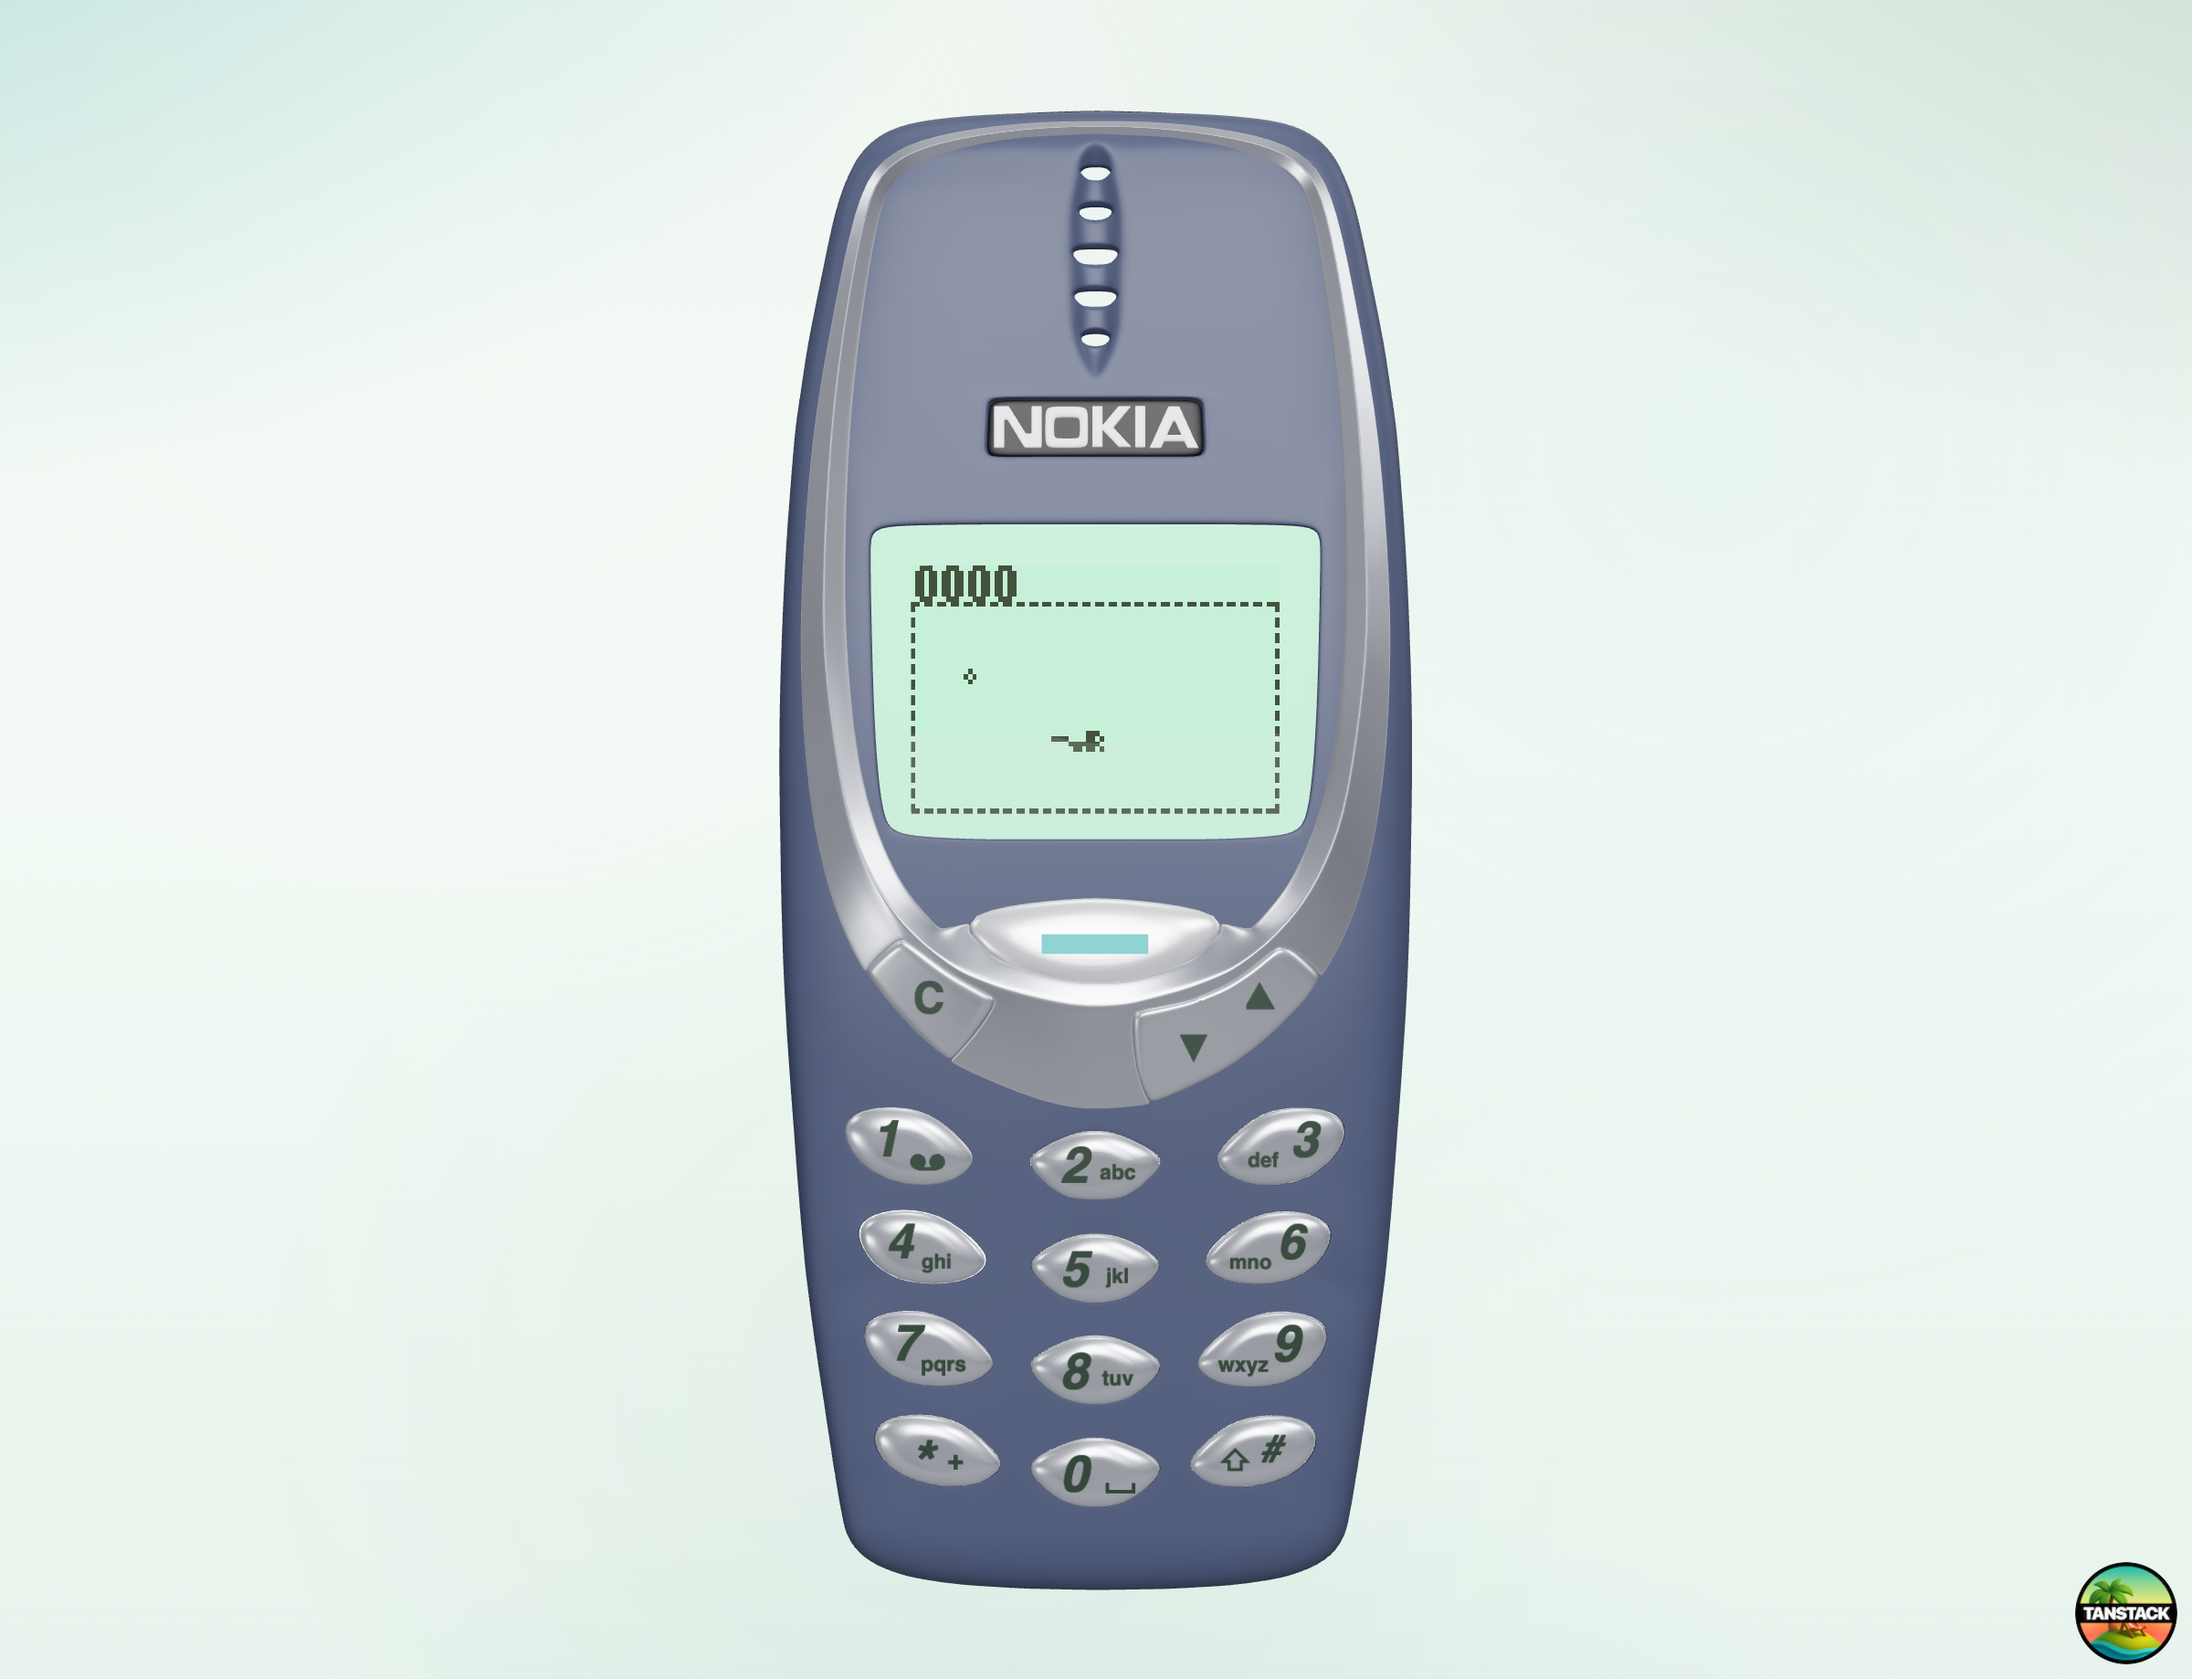
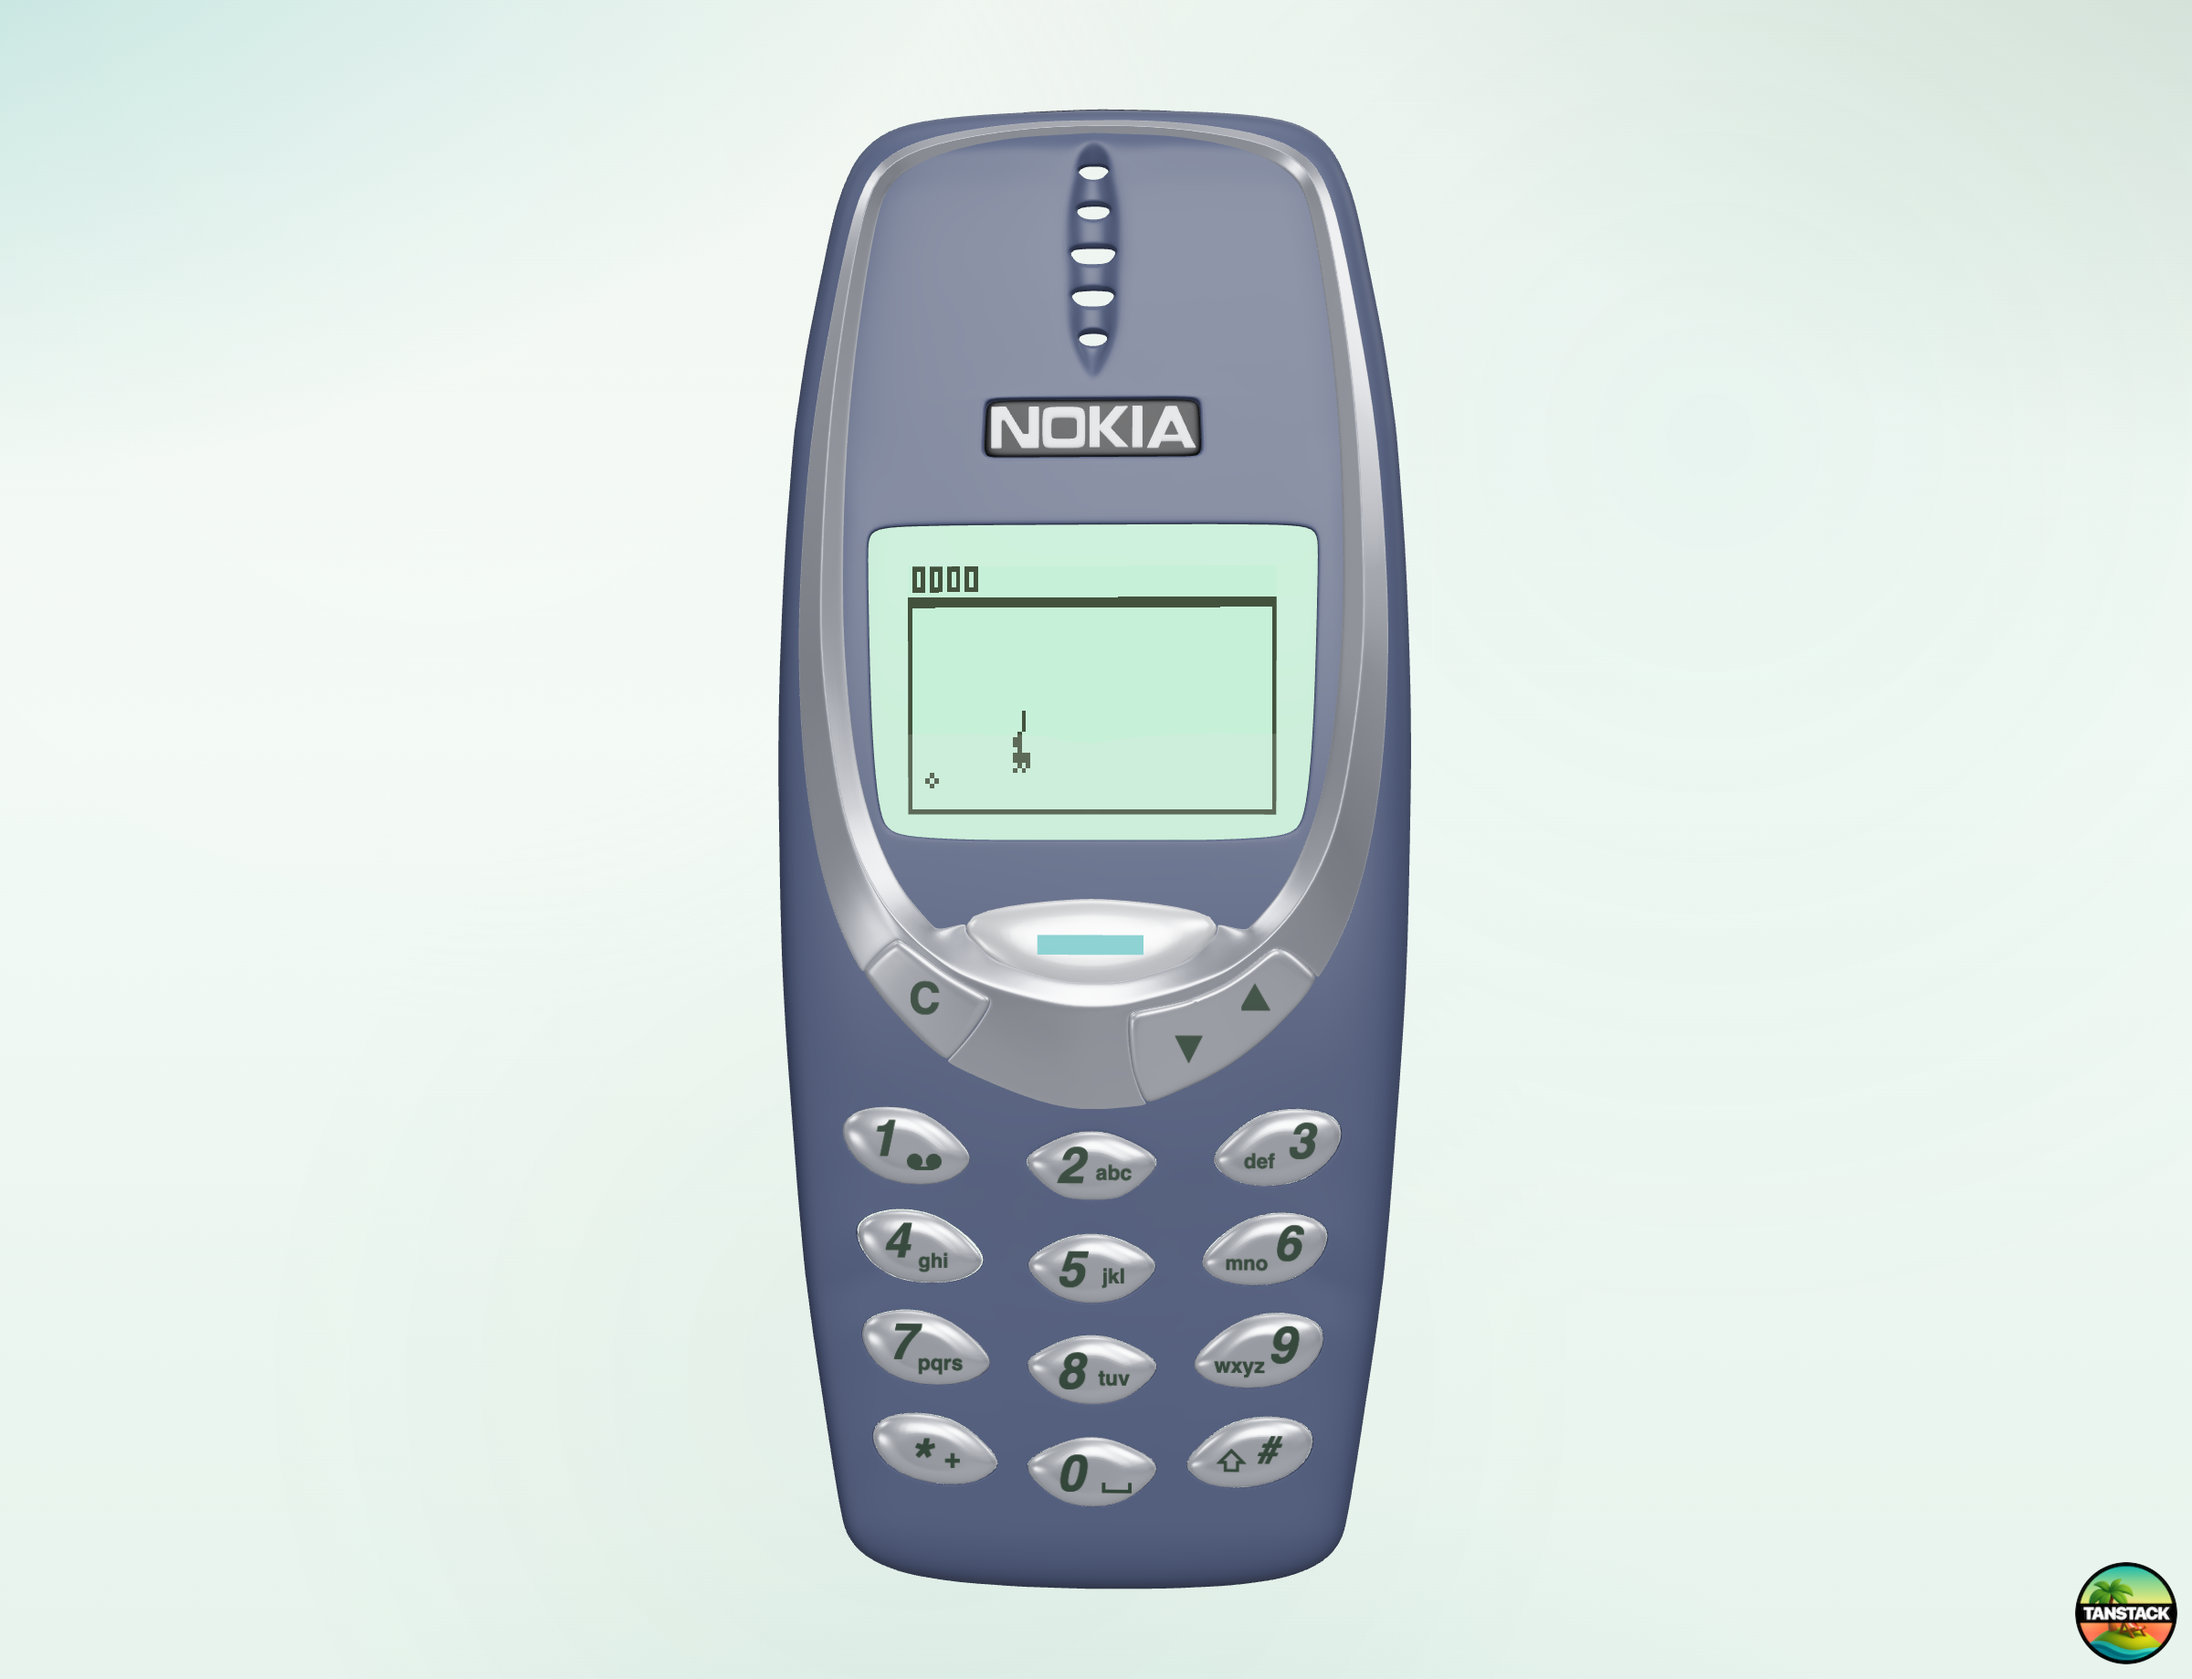
fix(snake): reference-measured HUD — 3x5 score, solid underline + frame
Measured the reference photo's ink density: the 'dashed' lines are the LCD
pixel grid, not gaps — underline and frame are SOLID 1px. Layout per the
measurement: 3x5 zero-padded score at rows 0-4, gap row 5, underline row 6,
frame top row 7 (bold 7-row digits reverted — they were the 'too big'
complaint; the bold font stays in phone-screen where it belongs). Bonus
countdown right-aligned in 3x5 at row 0. dirBetween lost its unused wrap
params. All 62 tests green against the new assertions.

diff --git a/packages/snake/src/font.ts b/packages/snake/src/font.ts
@@ -1,42 +1,31 @@
 import { drawArt } from "./bitmap";
 import type { Bitmap } from "./types";
 
-/**
- * Bold score digits matching the 3310 UI font (bitmaps transcribed from the
- * freeware "Nokia Cellphone FC Small" by Zeh Fernando at its native 8px —
- * copied as data; this package keeps its zero-dependency rule). Variable
- * width; the right bearing column is baked into each glyph.
- */
-export const DIGITS: Record<string, readonly string[]> = {
-  "0": [".###..", "##.##.", "##.##.", "##.##.", "##.##.", "##.##.", ".###.."],
-  "1": [".##.", "###.", ".##.", ".##.", ".##.", ".##.", ".##."],
-  "2": ["####..", "...##.", "...##.", ".###..", "##....", "##....", "#####."],
-  "3": ["####..", "...##.", "...##.", ".###..", "...##.", "...##.", "####.."],
-  "4": ["...##.", "..###.", ".#.##.", "#..##.", "#####.", "...##.", "...##."],
-  "5": ["####..", "#.....", "####..", "...##.", "...##.", "...##.", "####.."],
-  "6": [".###..", "##....", "####..", "##.##.", "##.##.", "##.##.", ".###.."],
-  "7": ["#####.", "...##.", "..##..", "..##..", ".##...", ".##...", ".##..."],
-  "8": [".###..", "##.##.", "##.##.", ".###..", "##.##.", "##.##.", ".###.."],
-  "9": [".###..", "##.##.", "##.##.", "##.##.", ".####.", "...##.", ".###.."],
+/** 3×5 digit font for the score bar (glyphs advance 4px: 3 wide + 1 gap). */
+export const FONT_3X5: Record<string, readonly string[]> = {
+  "0": ["###", "#.#", "#.#", "#.#", "###"],
+  "1": [".#.", "##.", ".#.", ".#.", "###"],
+  "2": ["###", "..#", "###", "#..", "###"],
+  "3": ["###", "..#", "###", "..#", "###"],
+  "4": ["#.#", "#.#", "###", "..#", "..#"],
+  "5": ["###", "#..", "###", "..#", "###"],
+  "6": ["###", "#..", "###", "#.#", "###"],
+  "7": ["###", "..#", "..#", ".#.", ".#."],
+  "8": ["###", "#.#", "###", "#.#", "###"],
+  "9": ["###", "#.#", "###", "..#", "###"],
 };
 
 /** Draw a non-negative integer at (x, y); `padTo` zero-pads (Snake II HUD). */
 export function drawNumber(b: Bitmap, x: number, y: number, value: number, padTo = 0): void {
   const digits = String(Math.max(0, Math.floor(value))).padStart(padTo, "0");
-  let cx = x;
-  for (const d of digits) {
-    const glyph = DIGITS[d]!;
-    drawArt(b, cx, y, glyph);
-    cx += glyph[0]!.length;
+  for (let i = 0; i < digits.length; i++) {
+    drawArt(b, x + i * 4, y, FONT_3X5[digits[i]]);
   }
 }
 
-/** Pixel width of a number rendered by drawNumber (bearing included). */
+/** Pixel width of a number rendered by drawNumber (3px glyph + 1px gap). */
 export function numberWidth(value: number, padTo = 0): number {
-  const digits = String(Math.max(0, Math.floor(value))).padStart(padTo, "0");
-  let w = 0;
-  for (const d of digits) w += DIGITS[d]![0]!.length;
-  return w;
+  return String(Math.max(0, Math.floor(value))).padStart(padTo, "0").length * 4 - 1;
 }
 
 /** Minimal 5×7 caps font: exactly the glyphs needed for "GAME OVER". */

diff --git a/packages/snake/src/render.ts b/packages/snake/src/render.ts
@@ -13,7 +13,7 @@ function cellOrigin(c: Cell): readonly [number, number] {
 type Dir = "up" | "right" | "down" | "left";
 
 /** Direction from `from` toward `to`, normalized across board wrap. */
-function dirBetween(from: Cell, to: Cell, cols: number, rows: number): Dir {
+function dirBetween(from: Cell, to: Cell): Dir {
   let dx = to.x - from.x;
   let dy = to.y - from.y;
   if (dx > 1) dx = -1;
@@ -28,22 +28,18 @@ function dirBetween(from: Cell, to: Cell, cols: number, rows: number): Dir {
 
 const HORIZONTAL = (d: Dir): boolean => d === "left" || d === "right";
 
-/** The dashed playfield frame (Snake II draws it even without a maze). The
- *  top edge doubles as the score underline, exactly like the reference. */
+/** Header rule + playfield frame, solid 1px (reference-measured: the
+ *  "dashes" in photos are the LCD pixel grid, not gaps). Layout per the
+ *  reference: digits rows 0–4, gap 5, score underline 6, frame top 7. */
 function drawFrame(b: Bitmap): void {
   const top = SCORE_BAR_H - 1; // y 7
   const bottom = b.height - 1; // y 47
-  for (let x = 0; x < b.width; x++) {
-    if (x % 3 !== 2) {
-      setPixel(b, x, top);
-      setPixel(b, x, bottom);
-    }
-  }
+  fillRect(b, 0, top - 1, b.width, 1); // score underline (y 6)
+  fillRect(b, 0, top, b.width, 1);
+  fillRect(b, 0, bottom, b.width, 1);
   for (let y = top; y <= bottom; y++) {
-    if ((y - top) % 3 !== 2) {
-      setPixel(b, 0, y);
-      setPixel(b, b.width - 1, y);
-    }
+    setPixel(b, 0, y);
+    setPixel(b, b.width - 1, y);
   }
 }
 
@@ -81,18 +77,18 @@ export function renderSnakeFrame(state: SnakeState): Bitmap {
   const snakeVisible = state.status !== "dying" || state.flashOn;
   if (!snakeVisible) return b;
 
-  const { snake, cols, rows } = state;
+  const { snake } = state;
   snake.forEach((c, i) => {
     const [x, y] = cellOrigin(c);
     const parity = (c.x + c.y) % 2 === 0;
 
     if (i === 0) {
-      const facing = snake.length > 1 ? dirBetween(snake[1]!, c, cols, rows) : "right";
+      const facing = snake.length > 1 ? dirBetween(snake[1]!, c) : "right";
       drawArt(b, x, y, HEAD[facing]);
       return;
     }
 
-    const toPrev = dirBetween(c, snake[i - 1]!, cols, rows);
+    const toPrev = dirBetween(c, snake[i - 1]!);
     if (i === snake.length - 1) {
       // Tail: a thin line tapering off in the travel axis, riding the wave band.
       if (HORIZONTAL(toPrev)) {
@@ -105,7 +101,7 @@ export function renderSnakeFrame(state: SnakeState): Bitmap {
       return;
     }
 
-    const toNext = dirBetween(c, snake[i + 1]!, cols, rows);
+    const toNext = dirBetween(c, snake[i + 1]!);
     if (HORIZONTAL(toPrev) && HORIZONTAL(toNext)) {
       // Straight horizontal: 2×2 block on the parity band + stepping wings.
       const off = parity ? 0 : 2;

diff --git a/packages/snake/tests/render.test.ts b/packages/snake/tests/render.test.ts
@@ -39,30 +39,32 @@ describe("renderSnakeFrame", () => {
     expect(renderSnakeFrame(s)).not.toBe(b);
   });
 
-  it("draws the zero-padded score top-left and the dashed frame", () => {
+  it("draws the zero-padded 3x5 score, underline and solid frame", () => {
     const b = renderSnakeFrame(baseState({ score: 90 }));
     expectFrame(
       b,
       1,
       0,
-      24,
-      7,
+      15,
+      5,
       `
-      .###...###...###...###..
-      ##.##.##.##.##.##.##.##.
-      ##.##.##.##.##.##.##.##.
-      ##.##.##.##.##.##.##.##.
-      ##.##.##.##..####.##.##.
-      ##.##.##.##....##.##.##.
-      .###...###...###...###..
+      ###.###.###.###
+      #.#.#.#.#.#.#.#
+      #.#.#.#.###.#.#
+      #.#.#.#...#.#.#
+      ###.###.###.###
     `,
     );
-    // dashed frame: 2-on/1-off along the top (score underline) and bottom
-    expect(frameRegion(b, 0, 7, 6, 1)).toBe("##.##.");
-    expect(frameRegion(b, 0, 47, 6, 1)).toBe("##.##.");
+    // solid score underline (y6) and frame top (y7), full width
+    expect(frameRegion(b, 0, 6, 84, 1)).toBe("#".repeat(84));
+    expect(frameRegion(b, 0, 7, 84, 1)).toBe("#".repeat(84));
+    // frame bottom and sides
+    expect(frameRegion(b, 0, 47, 84, 1)).toBe("#".repeat(84));
+    expect(frameRegion(b, 0, 20, 1, 1)).toBe("#");
+    expect(frameRegion(b, 83, 20, 1, 1)).toBe("#");
     // score bar is otherwise empty
-    const emptyRows = Array.from({ length: 7 }, () => ".".repeat(8)).join("\n");
-    expect(frameRegion(b, 40, 0, 8, 7)).toBe(emptyRows);
+    const emptyRows = Array.from({ length: 5 }, () => ".".repeat(8)).join("\n");
+    expect(frameRegion(b, 40, 0, 8, 5)).toBe(emptyRows);
   });
 
   it("draws the directed head, wavy body and thin tail", () => {
@@ -158,21 +160,19 @@ describe("renderSnakeFrame", () => {
       .##.
     `,
     );
-    // countdown "15" right-aligned: widths 4+6=10 → x = 84 - (10+1) = 73
+    // countdown "15" right-aligned: width 7 → x = 84 - 8 = 76
     expectFrame(
       b,
-      73,
+      76,
       0,
-      10,
       7,
+      5,
       `
-      .##.####..
-      ###.#.....
-      .##.####..
-      .##....##.
-      .##....##.
-      .##....##.
-      .##.####..
+      .#..###
+      ##..#..
+      .#..###
+      .#....#
+      ###.###
     `,
     );
   });

diff --git a/packages/snake/tests/bitmap.test.ts b/packages/snake/tests/bitmap.test.ts
@@ -1,6 +1,6 @@
 import { describe, expect, it } from "vite-plus/test";
 import { createBitmap, drawArt, fillRect, setPixel } from "../src/bitmap";
-import { DIGITS, drawNumber, numberWidth } from "../src/font";
+import { FONT_3X5, drawNumber, numberWidth } from "../src/font";
 import { HEAD, SPRITE_BONUS, SPRITE_FOOD } from "../src/sprites";
 import { expectFrame } from "./pixels";
 
@@ -48,27 +48,22 @@ describe("bitmap", () => {
   });
 });
 
-describe("bold digit font", () => {
-  it("has all ten digits, 7 rows each, consistent width", () => {
+describe("3x5 digit font", () => {
+  it("has all ten digits, 3x5 each", () => {
     for (const d of "0123456789") {
-      const rows = DIGITS[d]!;
-      expect(rows).toHaveLength(7);
-      const width = rows[0]!.length;
-      for (const row of rows) expect(row).toMatch(new RegExp(`^[#.]{${width}}$`));
+      const rows = FONT_3X5[d]!;
+      expect(rows).toHaveLength(5);
+      for (const row of rows) expect(row).toMatch(/^[#.]{3}$/);
     }
   });
 
-  it("drawNumber advances per glyph and zero-pads on request", () => {
+  it("drawNumber advances 4px per digit and zero-pads on request", () => {
     const b = createBitmap(40, 8);
     drawNumber(b, 0, 0, 90, 4); // "0090"
     const manual = createBitmap(40, 8);
-    let cx = 0;
-    for (const d of "0090") {
-      drawArt(manual, cx, 0, DIGITS[d]!);
-      cx += DIGITS[d]![0]!.length;
-    }
+    for (let i = 0; i < 4; i++) drawArt(manual, i * 4, 0, FONT_3X5["0090"[i]!]!);
     expect(b.pixels.join("")).toBe(manual.pixels.join(""));
-    expect(numberWidth(90, 4)).toBe(cx);
+    expect(numberWidth(90, 4)).toBe(15);
   });
 });
 

diff --git a/packages/snake/tests/game-over.test.ts b/packages/snake/tests/game-over.test.ts
@@ -122,39 +122,35 @@ describe("game over screen", () => {
 
   it("centers the final score below the text", () => {
     const zero = renderSnakeFrame(baseState({ status: "game-over", score: 0 }));
-    // one bold digit: width 6 → x = 39
+    // one digit: width 3 → x = 40
     expectFrame(
       zero,
-      39,
+      40,
       28,
-      6,
-      7,
+      3,
+      5,
       `
-      .###..
-      ##.##.
-      ##.##.
-      ##.##.
-      ##.##.
-      ##.##.
-      .###..
+      ###
+      #.#
+      #.#
+      #.#
+      ###
     `,
     );
     const b = renderSnakeFrame(baseState({ status: "game-over", score: 123 }));
-    // three digits: widths 4+6+6 = 16 → x = 34
+    // three digits: width 11 → x = 36
     expectFrame(
       b,
-      34,
+      36,
       28,
-      16,
-      7,
+      11,
+      5,
       `
-      .##.####..####..
-      ###....##....##.
-      .##....##....##.
-      .##..###...###..
-      .##.##.......##.
-      .##.##.......##.
-      .##.#####.####..
+      .#..###.###
+      ##....#...#
+      .#..###.###
+      .#..#.....#
+      ###.###.###
     `,
     );
   });

diff --git a/packages/snake/tests/integration.test.ts b/packages/snake/tests/integration.test.ts
@@ -32,18 +32,16 @@ describe("full game on the Box maze", () => {
     );
     expectFrame(
       frame,
-      39,
+      40,
       28,
-      6,
-      7,
+      3,
+      5,
       `
-      .###..
-      ##.##.
-      ##.##.
-      ##.##.
-      ##.##.
-      ##.##.
-      .###..
+      ###
+      #.#
+      #.#
+      #.#
+      ###
     `,
     );
     expect(g.tick()).toBe(false);
